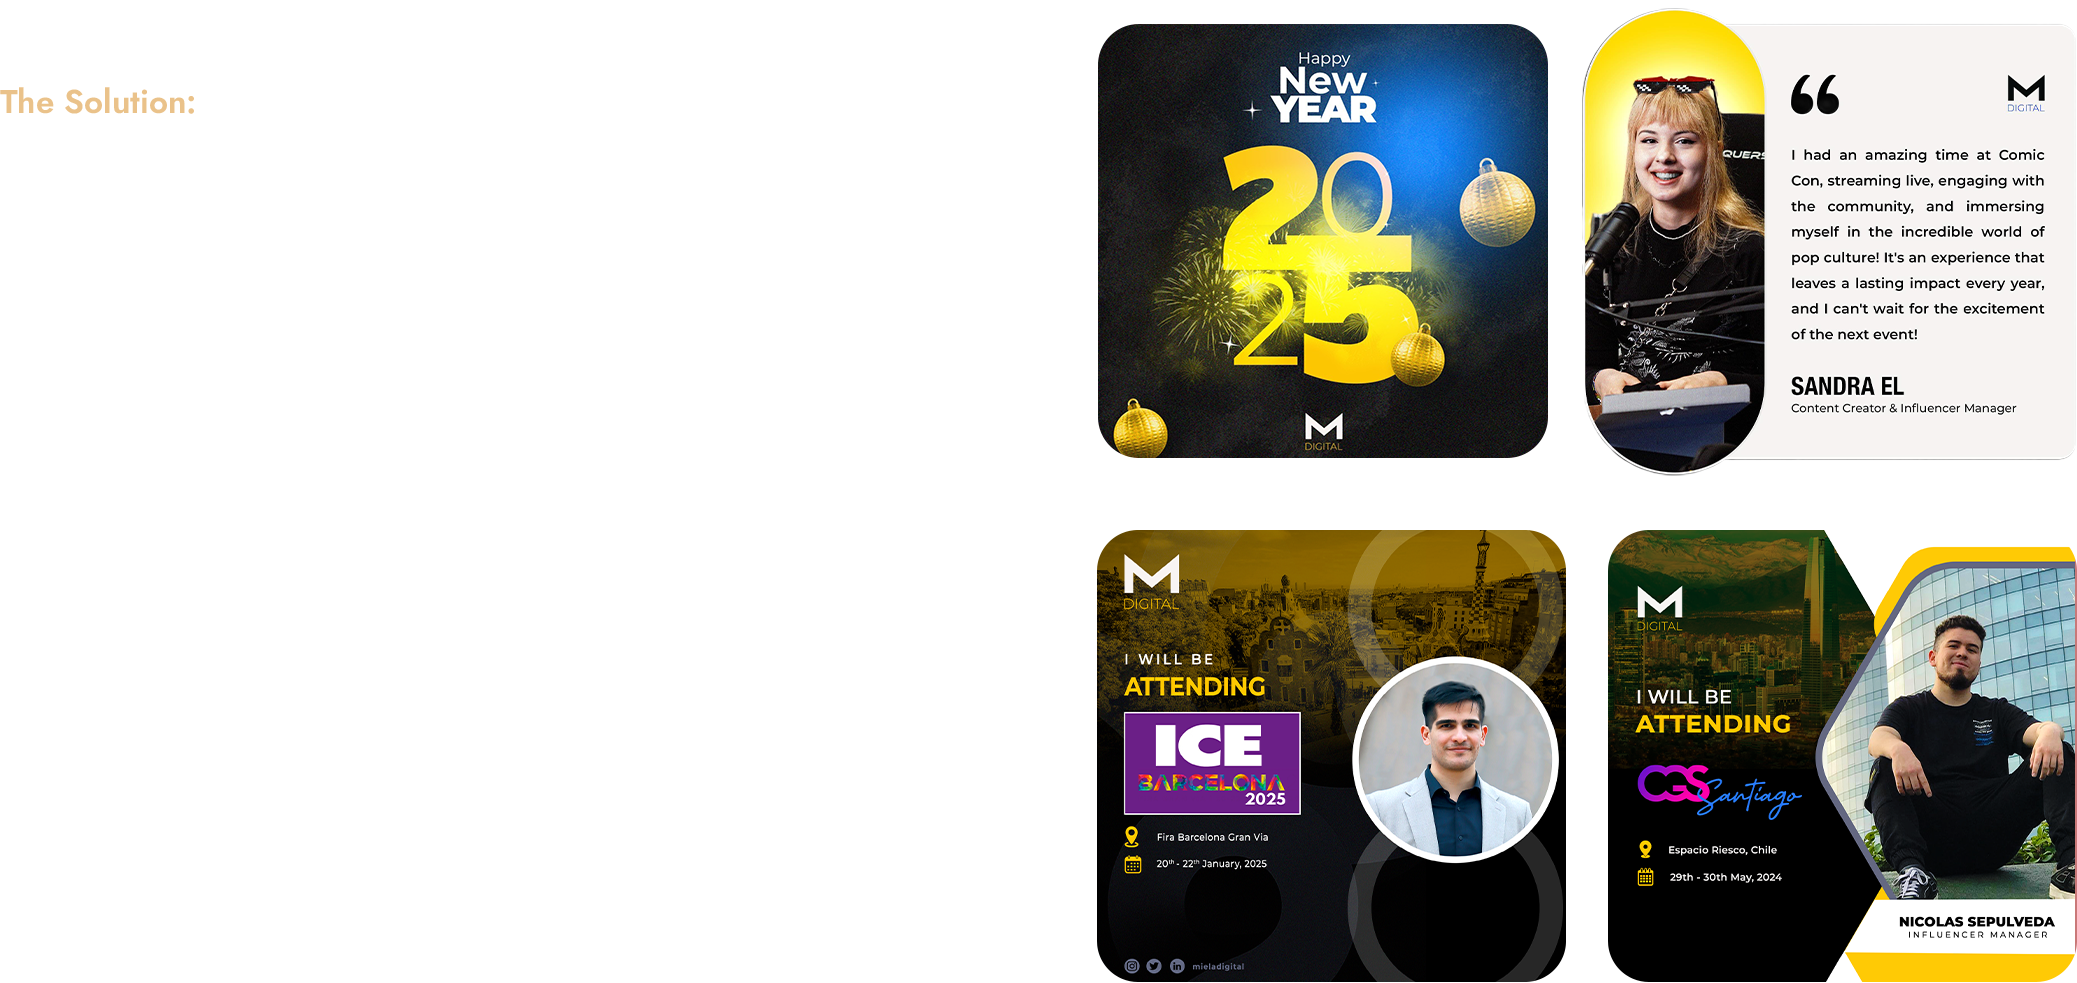
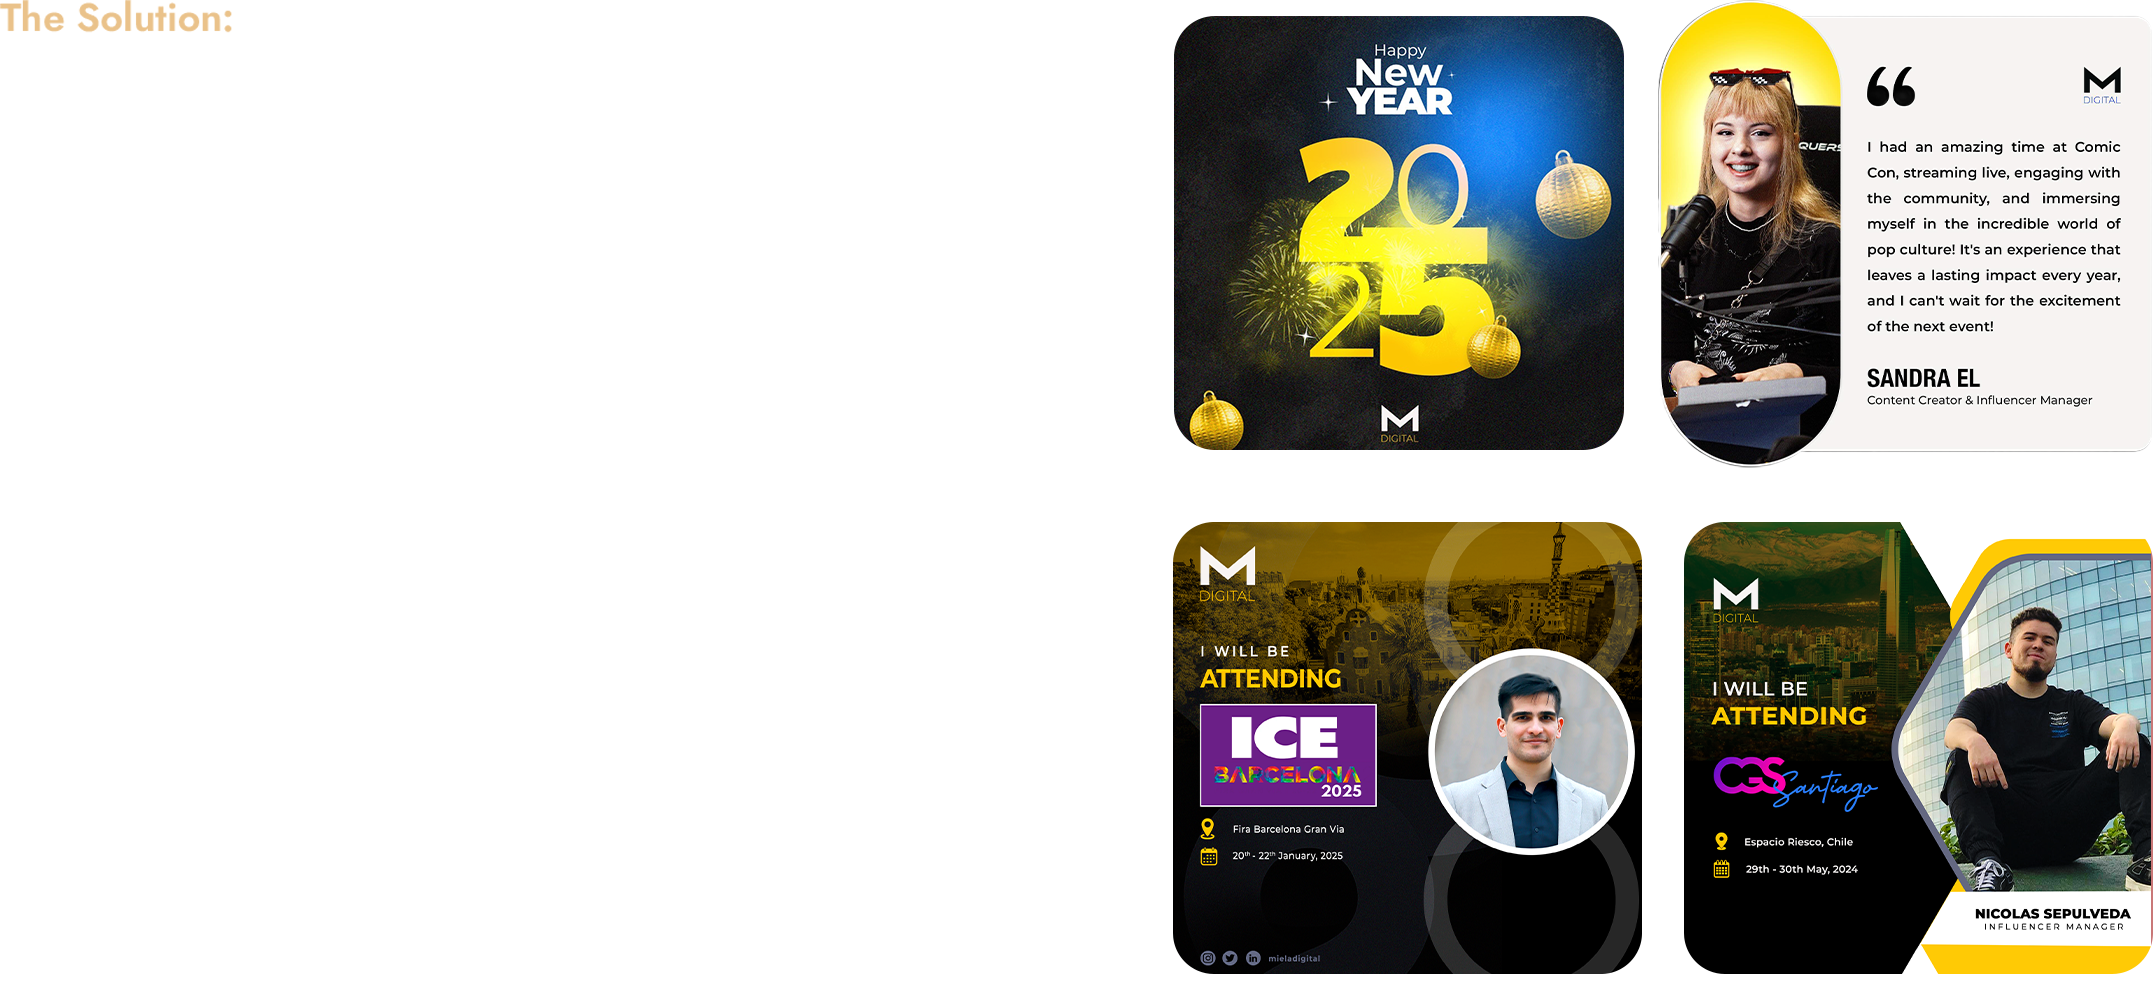
feat(miela): add 5th desktop frame, unify hero sizes, and offset images by 60px on short-height/ultrawide screens

diff --git a/src/pages/CreativeDesignerCaseDetail.jsx b/src/pages/CreativeDesignerCaseDetail.jsx
@@ -7,6 +7,7 @@ const mielaImage = `${import.meta.env.BASE_URL}miela-1.png`
 const mielaImage2 = `${import.meta.env.BASE_URL}miela-2.png`
 const mielaImage3 = `${import.meta.env.BASE_URL}miela-3.png`
 const mielaImage4 = `${import.meta.env.BASE_URL}miela-4.png`
+const mielaImage5 = `${import.meta.env.BASE_URL}miela-5.png`
 const mielaImageMobile = `${import.meta.env.BASE_URL}miela-1-mobile.png`
 const mielaImageMobile2 = `${import.meta.env.BASE_URL}miela-2-mobile.png`
 const mielaImageMobile3 = `${import.meta.env.BASE_URL}miela-3-mobile.png`
@@ -51,7 +52,7 @@ function CreativeDesignerCaseDetail() {
 
   // Scroll-direction swap for Miela hero (md+ screens only) + mobile 3-frame stepper
   const [showSecond, setShowSecond] = useState(false)
-  const [desktopFrame, setDesktopFrame] = useState(0) // 0: 1, 1: 2, 2: 3, 3: 4 on md+
+  const [desktopFrame, setDesktopFrame] = useState(0) // 0..4 maps to images 1..5 on md+
   const [mobileFrame, setMobileFrame] = useState(0) // png order: 1 -> 2 -> 3
   const lastYRef = useRef(0)
   const lastStepTimeRef = useRef(0)
@@ -66,7 +67,7 @@ function CreativeDesignerCaseDetail() {
     const stepByDir = (dir) => {
       if (dir === 0) return
       if (window.innerWidth >= 768) {
-        setDesktopFrame((i) => Math.min(3, Math.max(0, i + (dir > 0 ? 1 : -1))))
+        setDesktopFrame((i) => Math.min(4, Math.max(0, i + (dir > 0 ? 1 : -1))))
       }
     }
     // Desktop frame step lock (prevents multiple steps per gesture)
@@ -237,15 +238,15 @@ function CreativeDesignerCaseDetail() {
               </div>
             </div>
 
-            {/* Desktop/Tablet: three-frame hero (1 -> 2 -> 3); frame 3 uses more width */}
-            <div className="hidden md:flex w-full h-full items-center justify-center p-8 miela-hero-in">
+            {/* Desktop/Tablet: hero frames (uniform sizing) */}
+            <div className="hidden md:flex w-full h-full items-center justify-center p-8 miela-hero-in miela-desktop-hero">
               <div className="relative" style={{ height: '50vh', width: '100%' }}>
                 <img
                   src={mielaImage}
                   alt="Miela case artwork"
                   decoding="async"
                   loading="eager"
-                  className="swap-img absolute left-1/2 top-1/2 -translate-x-1/2 -translate-y-1/2 w-auto max-w-[90vw] h-[40vh] object-contain"
+                  className="swap-img absolute left-1/2 top-1/2 -translate-x-1/2 -translate-y-1/2 w-auto max-w-[94vw] h-[54vh] object-contain"
                   style={{ opacity: desktopFrame === 0 ? 1 : 0 }}
                   onError={(e) => { e.currentTarget.onerror = null; e.currentTarget.src = '/miela-1.png' }}
                 />
@@ -254,7 +255,7 @@ function CreativeDesignerCaseDetail() {
                   alt="Miela case artwork 2"
                   decoding="async"
                   loading="eager"
-                  className="swap-img absolute left-1/2 top-1/2 -translate-x-1/2 -translate-y-1/2 w-auto max-w-[90vw] h-[50vh] object-contain"
+                  className="swap-img absolute left-1/2 top-1/2 -translate-x-1/2 -translate-y-1/2 w-auto max-w-[94vw] h-[54vh] object-contain"
                   style={{ opacity: desktopFrame === 1 ? 1 : 0 }}
                   onError={(e) => { e.currentTarget.onerror = null; e.currentTarget.src = '/miela-2.png' }}
                 />
@@ -263,7 +264,7 @@ function CreativeDesignerCaseDetail() {
                   alt="Miela case artwork 3"
                   decoding="async"
                   loading="eager"
-                  className="swap-img absolute left-1/2 top-1/2 -translate-x-1/2 -translate-y-1/2 w-auto max-w-[76vw] h-[38vh] object-contain"
+                  className="swap-img absolute left-1/2 top-1/2 -translate-x-1/2 -translate-y-1/2 w-auto max-w-[94vw] h-[54vh] object-contain"
                   style={{ opacity: desktopFrame === 2 ? 1 : 0 }}
                   onError={(e) => { e.currentTarget.onerror = null; e.currentTarget.src = '/miela-3.png' }}
                 />
@@ -275,6 +276,15 @@ function CreativeDesignerCaseDetail() {
                   className="swap-img absolute left-1/2 top-1/2 -translate-x-1/2 -translate-y-1/2 w-auto max-w-[94vw] h-[54vh] object-contain"
                   style={{ opacity: desktopFrame === 3 ? 1 : 0 }}
                   onError={(e) => { e.currentTarget.onerror = null; e.currentTarget.src = '/miela-4.png' }}
+                />
+                <img
+                  src={mielaImage5}
+                  alt="Miela case artwork 5"
+                  decoding="async"
+                  loading="eager"
+                  className="swap-img absolute left-1/2 top-1/2 -translate-x-1/2 -translate-y-1/2 w-auto max-w-[94vw] h-[54vh] object-contain"
+                  style={{ opacity: desktopFrame === 4 ? 1 : 0 }}
+                  onError={(e) => { e.currentTarget.onerror = null; e.currentTarget.src = '/miela-5.png' }}
                 />
               </div>
             </div>
@@ -379,6 +389,15 @@ function CreativeDesignerCaseDetail() {
         /* Respect reduced motion */
         @media (prefers-reduced-motion: reduce) {
           .marquee-track { animation-duration: 0.001ms; animation-iteration-count: 1; }
+        }
+
+        /* Nudge hero images down on short-height screens */
+        @media (max-height: 800px) {
+          .miela-desktop-hero .swap-img { transform: translate(-50%, calc(-50% + 60px)); }
+        }
+        /* Also nudge on ultra‑wide aspect ratios (very wide, limited vertical space) */
+        @media (min-aspect-ratio: 2/1) {
+          .miela-desktop-hero .swap-img { transform: translate(-50%, calc(-50% + 60px)); }
         }
       `}</style>
     </div>
